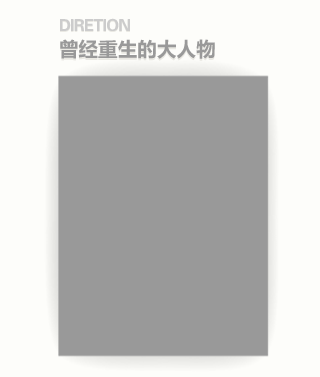
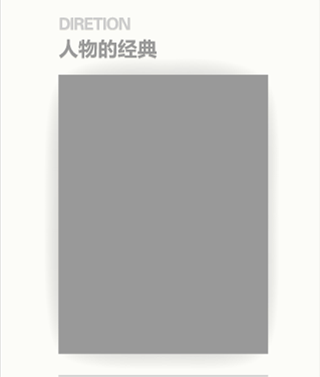
修正翻页、目录跳转后再翻页等bug，完善界面

Changed region(s): [[0.1875, 0.0292, 0.8438, 0.2042], [0.1875, 0.992, 0.8438, 1.0], [0.1875, 0.9337, 0.8438, 0.9629]]

diff --git a/html/003/010.html b/html/003/010.html
@@ -14,7 +14,7 @@
         <br/>
         <br/>
         <br/>
-		<h2>栏目三</h2>
+		<h2>《鉴赏》</h2>
         <p><strong>文章3：</strong><br/>  <strong>外文名</strong>: 圣弥厄尔教堂St. Michael's Church  (法语：L'église Saint-Michel）<br/>
         <strong>所属教会</strong>:天主教<br/>
         <strong>建成时间</strong>: 1904年<br/>

diff --git a/html/001/002.html b/html/001/002.html
@@ -14,7 +14,7 @@
         <br/>
         <br/>
         <br/>
-		<h2>栏目一</h2>
+		<h2>《曾经重生的大人物》</h2>
         <p><strong>文章2：</strong> <br/> <strong>俗名</strong>: 北堂<br/>
          <strong>所属教会</strong>:天主教<br/>
          <strong>建成时间 </strong>: 1703年（1887重建）<br/>

diff --git a/html/003/009.html b/html/003/009.html
@@ -14,7 +14,7 @@
         <br/>
         <br/>
         <br/>
-		<h2>栏目三</h2>
+		<h2>《鉴赏》</h2>
         <p><strong>文章2：</strong><br/>
         <strong>别名</strong>：曾在1958年基督教联合礼拜中保留，称为“西堂”<br/>
         <strong>建筑风格</strong>：中西结合式建筑<br/>

diff --git a/html/002/006.html b/html/002/006.html
@@ -15,7 +15,7 @@
         <br/>
         <br/>
         <br/>
-		<h2>栏目二</h2>
+		<h2>《人物的经典》</h2>
         <p><strong>文章4：</strong>  <br/>
         <strong>所属教会</strong>：东正教<br/>
         <strong>建成时间</strong>：始建于1710年，现存的建筑建于1900年<br/>

diff --git a/html/002/005.html b/html/002/005.html
@@ -14,7 +14,7 @@
         <br/>
         <br/>
         <br/>
-		<h2>栏目二</h2>
+		<h2>《人物的经典》</h2>
         <p><strong>文章3：</strong><br/>  
         <strong>别名</strong>：东堂，又名圣若瑟堂、八面槽教堂<br/>
         <strong>所属教会</strong>：天主教<br/>

diff --git a/html/001/001.html b/html/001/001.html
@@ -15,7 +15,7 @@
         <br/>
         <br/>
         <br/>
-		<h2>栏目一</h2>
+		<h2>《曾经重生的大人物》</h2>
         <p><strong>文章1：</strong><br/>  
         <strong>别名</strong>：卫理公会亚斯立堂<br/> 
         <strong>所属教会</strong>：基督教新教<br/> 

diff --git a/html/002/003.html b/html/002/003.html
@@ -14,7 +14,7 @@
         <br/>
         <br/>
         <br/>
-		<h2>栏目二</h2>
+		<h2>《人物的经典》</h2>
         <p><strong>文章1：</strong><br/>
         <strong>别名</strong>：圣母圣衣堂，俗称西堂<br/>
         <strong>所属教会</strong>：天主教<br/>

diff --git a/html/003/008.html b/html/003/008.html
@@ -14,7 +14,7 @@
         <br/>
         <br/>
         <br/>
-		<h2>栏目三</h2>
+		<h2>《鉴赏》</h2>
         <p><strong>文章1：</strong><br/>  
         <strong>建筑风格</strong>：现代主义<br/>
         <strong>所属教会</strong>：基督教新教<br/>

diff --git a/html/002/004.html b/html/002/004.html
@@ -14,7 +14,7 @@
         <br/>
         <br/>
         <br/>
-		<h2>栏目2</h2>
+		<h2>《人物的经典》</h2>
         <p><strong>文章2：</strong>  
         <strong>别名</strong>：曾称普爱堂<br/>
         <strong>所属教会</strong>：天主教<br/>

diff --git a/html/002/007.html b/html/002/007.html
@@ -14,7 +14,7 @@
         <br/>
         <br/>
         <br/>
-		<h2>栏目二</h2>
+		<h2>《人物的经典》</h2>
         <p><strong>文章5：</strong>  <br/>
         <strong>别名</strong>：南堂<br/>
         <strong>所属教会</strong>：天主教<br/>

diff --git a/MusicHeaven/ViewControllers/RootViewController.m b/MusicHeaven/ViewControllers/RootViewController.m
@@ -8,6 +8,8 @@
 
 #import "RootViewController.h"
 
+#define PagePlayButtonFrame CGRectMake(668, 924, 44, 44)
+
 @interface RootViewController ()
 
 @end
@@ -21,16 +23,18 @@
             loadingIndicator                = _loadingIndicator,
             swipeLeft                       = _swipeLeft,
             swipeRight                      = _swipeRight,
-            singleTap                       = _singleTap,
+            doubleTap                       = _doubleTap,
             currentPageNumber               = _currentPageNumber,
             indexOfSpecifiedColume          = _indexOfSpecifiedColume,
             indexOfFileInSpecifiedColume    = _indexOfFileInSpecifiedColume,
             allFilesCounted                 = _allFilesCounted,
             allColumnsCounted               = _allColumnsCounted,
             swipeDirection                  = _swipeDirection,
+            isPlaying                       = _isPlaying,
             isShowNavBar                    = _isShowNavBar,
             popoverContentsVC               = _popoverContentsVC,
-            contentsVC                      = _contentsVC;
+            contentsVC                      = _contentsVC,
+            pagePlayerBtn                   = _pagePlayerBtn;
 
 - (id)init
 {
@@ -46,8 +50,8 @@
         self.allFilesCounted = 0;
         
         self.isShowNavBar = YES;
+        self.isPlaying = NO;
         
-                
         //custom window
         
         if (!_data) {
@@ -74,13 +78,13 @@
         self.swipeRight = [[UISwipeGestureRecognizer alloc]initWithTarget:self action:@selector(swipeToRight)];     //向右滑动
         [_swipeRight setDirection:UISwipeGestureRecognizerDirectionRight];
         
-        self.singleTap = [[UITapGestureRecognizer alloc]initWithTarget:self action:@selector(showsOrHidesBar)];
-        _singleTap.delegate = self;
-        _singleTap.cancelsTouchesInView = NO;
+        self.doubleTap = [[UITapGestureRecognizer alloc]initWithTarget:self action:@selector(showsOrHidesBar)];
+        _doubleTap.delegate = self;
+        _doubleTap.cancelsTouchesInView = NO;
         
-        [_singleTap setNumberOfTapsRequired:1];
-        [_singleTap setNumberOfTouchesRequired:1];
-        [_singleTap setCancelsTouchesInView:NO];
+        [_doubleTap setNumberOfTapsRequired:2];
+        [_doubleTap setNumberOfTouchesRequired:1];
+        [_doubleTap setCancelsTouchesInView:NO];
         
 //        NSLog(@"initWithNibName-----%f", self.view.frame.size.width);
 //        NSLog(@"initWithNibName-----%f", self.view.frame.size.height);
@@ -116,10 +120,16 @@
         
         [self.webView addGestureRecognizer:self.swipeLeft];
         [self.webView addGestureRecognizer:self.swipeRight];
-        [self.webView addGestureRecognizer:self.singleTap];
+        [self.webView addGestureRecognizer:self.doubleTap];
         
         [_webView scalesPageToFit]; 
         
+        self.pagePlayerBtn = [UIButton buttonWithType:UIButtonTypeCustom];
+        [_pagePlayerBtn setFrame:PagePlayButtonFrame];
+        [_pagePlayerBtn setBackgroundImage:[UIImage imageNamed:@"bofang.png"] forState:UIControlStateNormal];
+        [_pagePlayerBtn addTarget:self action:@selector(pagePlayBtnPressed:) forControlEvents:UIControlEventTouchUpInside];
+        
+        [_webView addSubview:self.pagePlayerBtn];
     }
     return self;
 }
@@ -228,15 +238,18 @@
 {    
     NSLog(@"--- %@",NSStringFromSelector(_cmd));
     
-    if (self.webViewNew == nil) {
+    if (self.webViewNew == nil && _currentPageNumber < _allFilesCounted -1) {
+        NSLog(@"--- --- self.webViewNew == nil");
         self.webViewNew = [[UIWebView alloc]initWithFrame:CGRectMake(0, 0, self.view.frame.size.width, self.view.frame.size.height)];
         _webViewNew.delegate = self;
         [(UIScrollView *)[[_webViewNew subviews] objectAtIndex:0] setBounces:NO];
         [_webViewNew addSubview:self.loadingView];
         _webViewNew.scalesPageToFit = YES;
+        [_webViewNew addSubview:self.pagePlayerBtn];
     }
+
     
-    [self.webViewNew addGestureRecognizer:self.singleTap];
+    [self.webViewNew addGestureRecognizer:self.doubleTap];
     
     if (self.loadingView) {
         [self.webViewNew addSubview:self.loadingView];
@@ -245,7 +258,7 @@
     
     if (_currentPageNumber < _allFilesCounted -1)
     {
-//        NSLog(@"_currentPageNumber < _allFilesCounted");
+        NSLog(@"_currentPageNumber < _allFilesCounted");
         
         _currentPageNumber +=1;
         self.indexOfSpecifiedColume = [self getIndexOfColumn];
@@ -272,17 +285,18 @@
 {
     NSLog(@"--- %@",NSStringFromSelector(_cmd));
     
-    if (self.webViewNew == nil) {
-//        NSLog(@"--- self.webViewNew == ni");
+    if (self.webViewNew == nil && _currentPageNumber > 0) {
+        NSLog(@"--- self.webViewNew == nil");
         self.webViewNew = [[UIWebView alloc]init];
         _webViewNew.delegate = self;
         [_webViewNew addSubview:self.loadingView];
         [(UIScrollView *)[[_webViewNew subviews] objectAtIndex:0] setBounces:NO];
         _webViewNew.scalesPageToFit = YES;
         
+        [_webViewNew addSubview:self.pagePlayerBtn];
     }
     
-    [self.webViewNew addGestureRecognizer:self.singleTap];
+    [self.webViewNew addGestureRecognizer:self.doubleTap];
     
     if (self.loadingView) {
         [self.webViewNew addSubview:self.loadingView];
@@ -292,7 +306,7 @@
     
     if (_currentPageNumber > 0)
     {
-//        NSLog(@"--- self.dataIndex > 1");
+        NSLog(@"--- self.dataIndex > 1");
         
         _currentPageNumber -=1;
         
@@ -313,6 +327,16 @@
         
         [UIView commitAnimations];
         
+    }else{
+        NSLog(@"_currentPageNumber = %d",_currentPageNumber);
+//        [self.webView removeFromSuperview];
+//        self.webView = nil;
+//        self.webView = self.webViewNew;
+//        self.webViewNew = nil;
+        
+//        [self.webView addGestureRecognizer:self.swipeLeft];
+//        [self.webView addGestureRecognizer:self.swipeRight];
+//        [self.webView addSubview:self.pagePlayerBtn];
     }  
 }
 
@@ -445,6 +469,7 @@
     [_popoverContentsVC presentPopoverFromRect:aRect inView:self.view permittedArrowDirections:UIPopoverArrowDirectionAny animated:YES];
 }
 
+
 - (void)playButtonPressed:(id)sender
 {
     
@@ -457,6 +482,20 @@
 
 - (void)backButtonPressed:(id)sender
 {
+    
+}
+
+- (void)pagePlayBtnPressed:(id)sender
+{
+    _isPlaying = !_isPlaying;
+    
+    if (_isPlaying) {
+        [self.pagePlayerBtn setBackgroundImage:[UIImage imageNamed:@"zanting.png"] forState:UIControlStateNormal];
+        [self.pagePlayerBtn setBackgroundImage:[UIImage imageNamed:@"zantinganniuHighLighted.png"] forState:UIControlStateHighlighted];
+    }else {
+        [self.pagePlayerBtn setBackgroundImage:[UIImage imageNamed:@"bofang.png"] forState:UIControlStateNormal];
+        [self.pagePlayerBtn setBackgroundImage:[UIImage imageNamed:@"bofangHighLighted.png"] forState:UIControlStateHighlighted];
+    }
     
 }
 
@@ -510,23 +549,26 @@
 {
 //    NSLog(@"-②-");
     
-    if (self.indexOfSpecifiedColume > index) 
+    if (self.indexOfSpecifiedColume > index)    //在目录列表中所选的栏目的序号比当前看到的栏目序号小，启动向右划动手势
     {
 //        NSLog(@"-③- ，self.indexOfSpecifiedColume = %d, self.swipeDirection == MHSwipeToRight",self.indexOfSpecifiedColume);
         self.swipeDirection = MHSwipeToRight;
         self.indexOfSpecifiedColume = index;
-    }else if (self.indexOfSpecifiedColume < index)
+        self.indexOfFileInSpecifiedColume = 0;
+    }else if (self.indexOfSpecifiedColume < index)  //在目录列表中所选的栏目的序号比当前看到的栏目序号大，启动向左划动手势
     {
 //        NSLog(@"-④- ，self.indexOfSpecifiedColume = %d, self.swipeDirection == MHSwipeToRight",self.indexOfSpecifiedColume);
 //        NSLog(@"-④- self.swipeDirection == MHSwipeToLeft");
         self.swipeDirection = MHSwipeToLeft;
         self.indexOfSpecifiedColume = index;
+        self.indexOfFileInSpecifiedColume = 0;
     }else {
-        if (self.indexOfFileInSpecifiedColume != 0) 
+        if (self.indexOfFileInSpecifiedColume != 0) //在目录列表中所选的栏目的序号与当前看到的栏目序号相等，但不是该栏目第一篇，启动向右划动手势
         {
 //            NSLog(@"-⑤- self.swipeDirection == MHSwipeToRight");
             self.swipeDirection = MHSwipeToRight;
             self.indexOfSpecifiedColume = index;
+            self.indexOfFileInSpecifiedColume = 0;
         }else 
         {
             self.swipeDirection = MHSwipeToNone;
@@ -537,7 +579,6 @@
     if (self.swipeDirection == MHSwipeToLeft) 
     {
        
-        
         if (self.webViewNew == nil) {
             self.webViewNew = [[UIWebView alloc]initWithFrame:CGRectMake(0, 0, self.view.frame.size.width, self.view.frame.size.height)];
             _webViewNew.delegate = self;
@@ -546,7 +587,8 @@
             _webViewNew.scalesPageToFit = YES;
         }
         
-        [self.webViewNew addGestureRecognizer:self.singleTap];
+        [self.webViewNew addGestureRecognizer:self.doubleTap];
+        [_webViewNew addSubview:self.pagePlayerBtn];
         
         if (self.loadingView) {
             [self.webViewNew addSubview:self.loadingView];
@@ -580,7 +622,8 @@
             _webViewNew.scalesPageToFit = YES;
         }
         
-        [self.webViewNew addGestureRecognizer:self.singleTap];
+        [self.webViewNew addGestureRecognizer:self.doubleTap];
+        [_webViewNew addSubview:self.pagePlayerBtn];
         
         if (self.loadingView) {
             [self.webViewNew addSubview:self.loadingView];
@@ -605,6 +648,18 @@
         [UIView commitAnimations];
 
     }
+
+    NSUInteger aNumber = 0;
+    
+    if (index > 0) {
+        for (int i = index - 1; i >= 0; i--) {
+            aNumber += [[self.data.allPacksArray objectAtIndex:i] count];
+        }
+        self.currentPageNumber = aNumber;
+    }else {
+        self.currentPageNumber = 0;
+    }
+    
 }
 
 - (void)dismissContentsViewController

diff --git a/MusicHeaven/ViewControllers/ContentsViewController.m b/MusicHeaven/ViewControllers/ContentsViewController.m
@@ -76,17 +76,14 @@
     NSUInteger row = [indexPath row];
     NSUInteger specIndex = 0;
     
-    if (row == 0) {
-        specIndex = row;
-    }else {
-        specIndex =row + 1;
-    }
+    specIndex = row * 2;
 
 //    if ([self allTrumbsArray])
     if (self.dataSource && [self.dataSource respondsToSelector:@selector(getColumnTrumbsImageWithDataSource:)]) {
         self.allTrumbsArray = [self.dataSource getColumnTrumbsImageWithDataSource:self.dataSource];
+        NSLog(@"===== %@",self.allTrumbsArray);
         UIImage *trumbImage = [UIImage imageWithContentsOfFile:[_allTrumbsArray objectAtIndex:specIndex]];
-        //        NSLog(@"===== %@",trumbImage);
+//        NSLog(@"===== %@",trumbImage);
         [[cell columnImageView] setImage:trumbImage];
     }  
     
@@ -121,6 +118,8 @@
     UIImage *headerImage = [UIImage imageWithContentsOfFile:headerImgPath];
 //    NSLog(@"② !!!%@",headerImage);
     [header.headerImageView setImage:headerImage];
+    
+    [header.dismissContentsBtn addTarget:self.dataSource action:@selector(dismissContentsViewController) forControlEvents:UIControlEventTouchUpInside];
   
     return header;
 }
